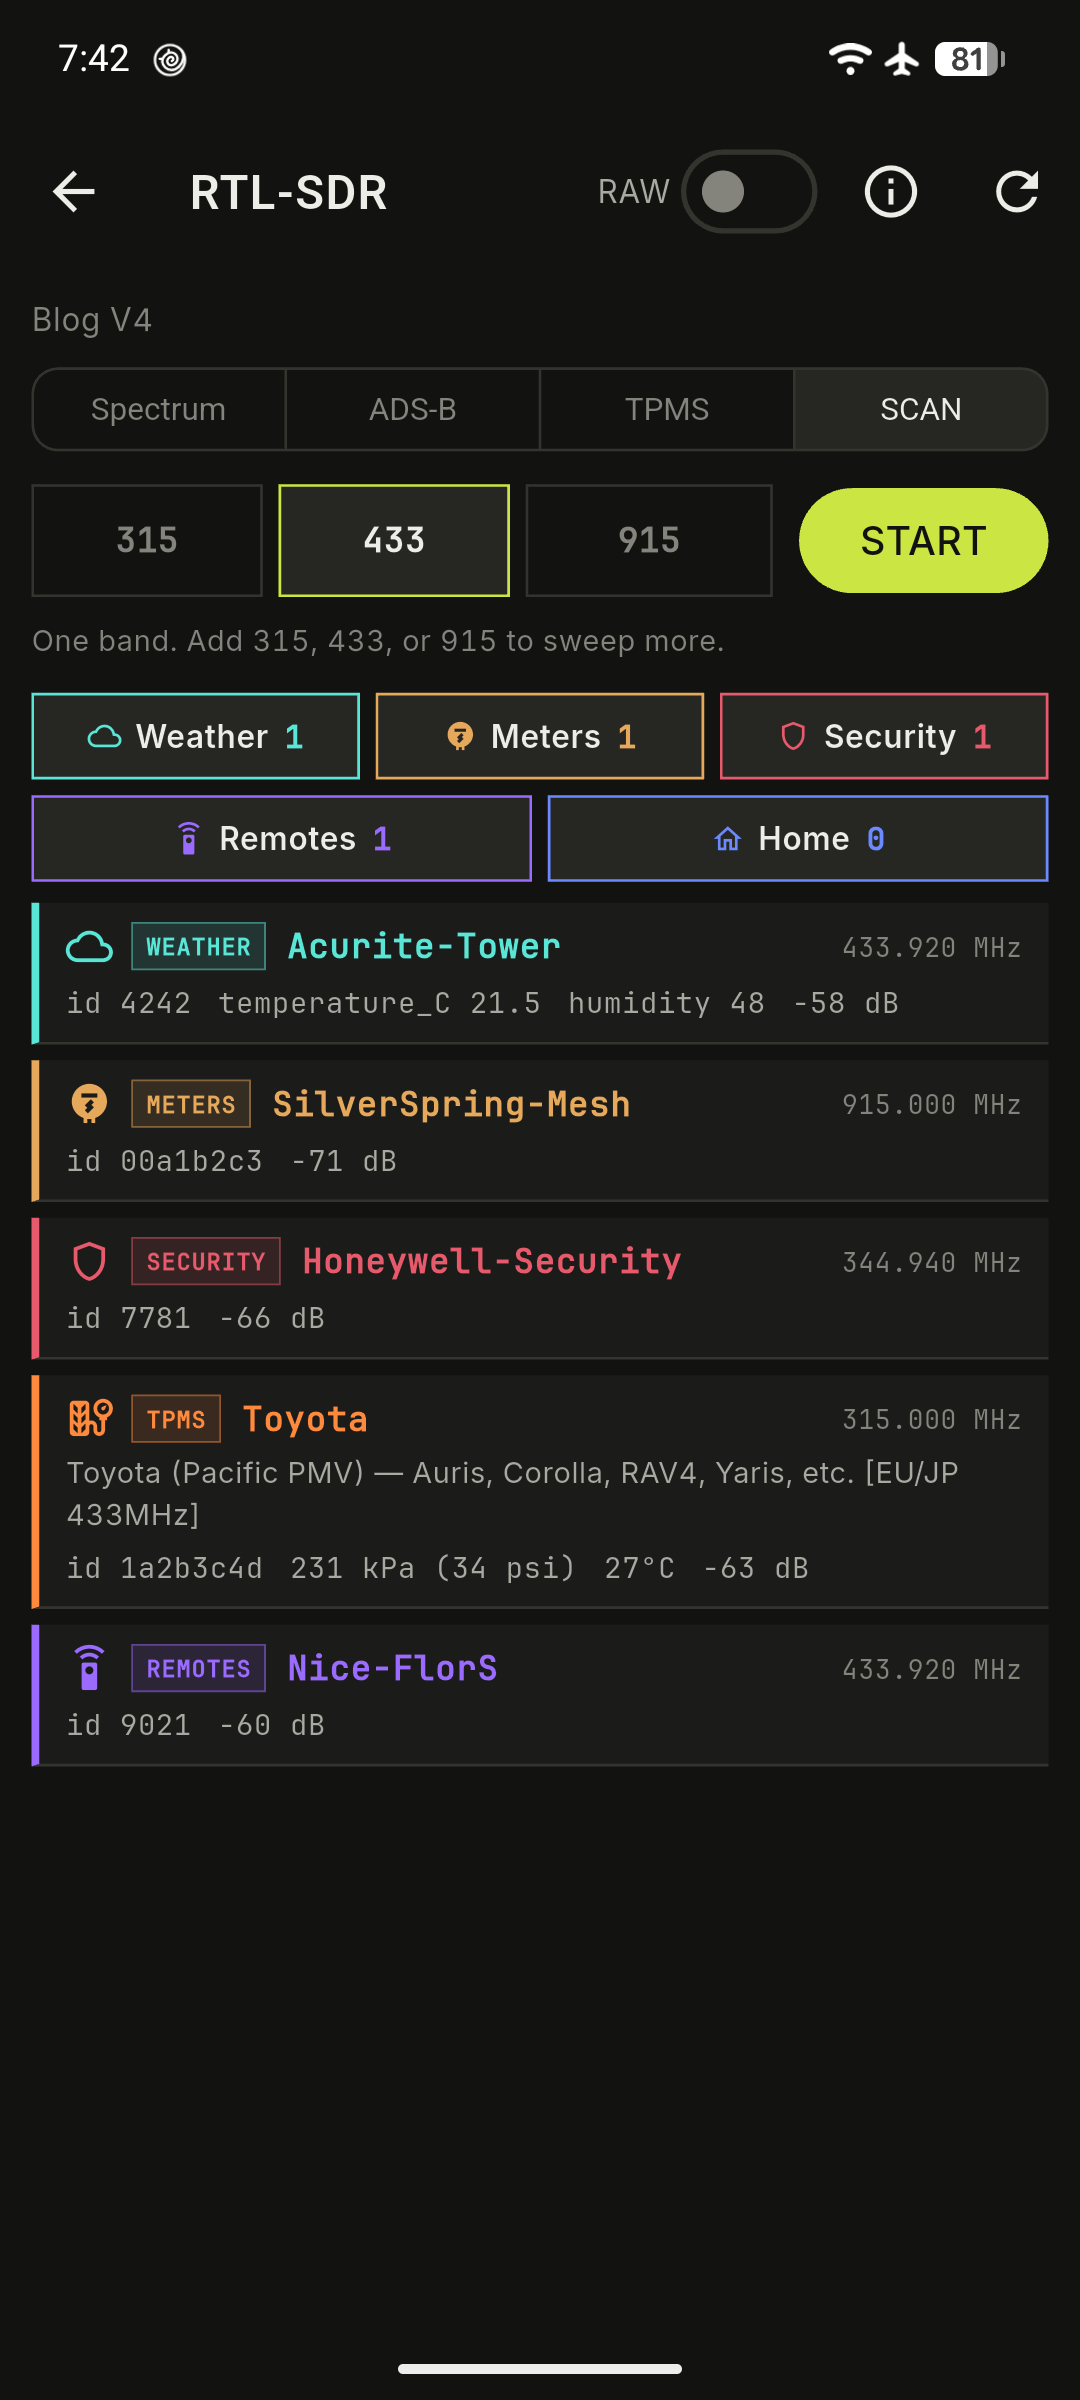
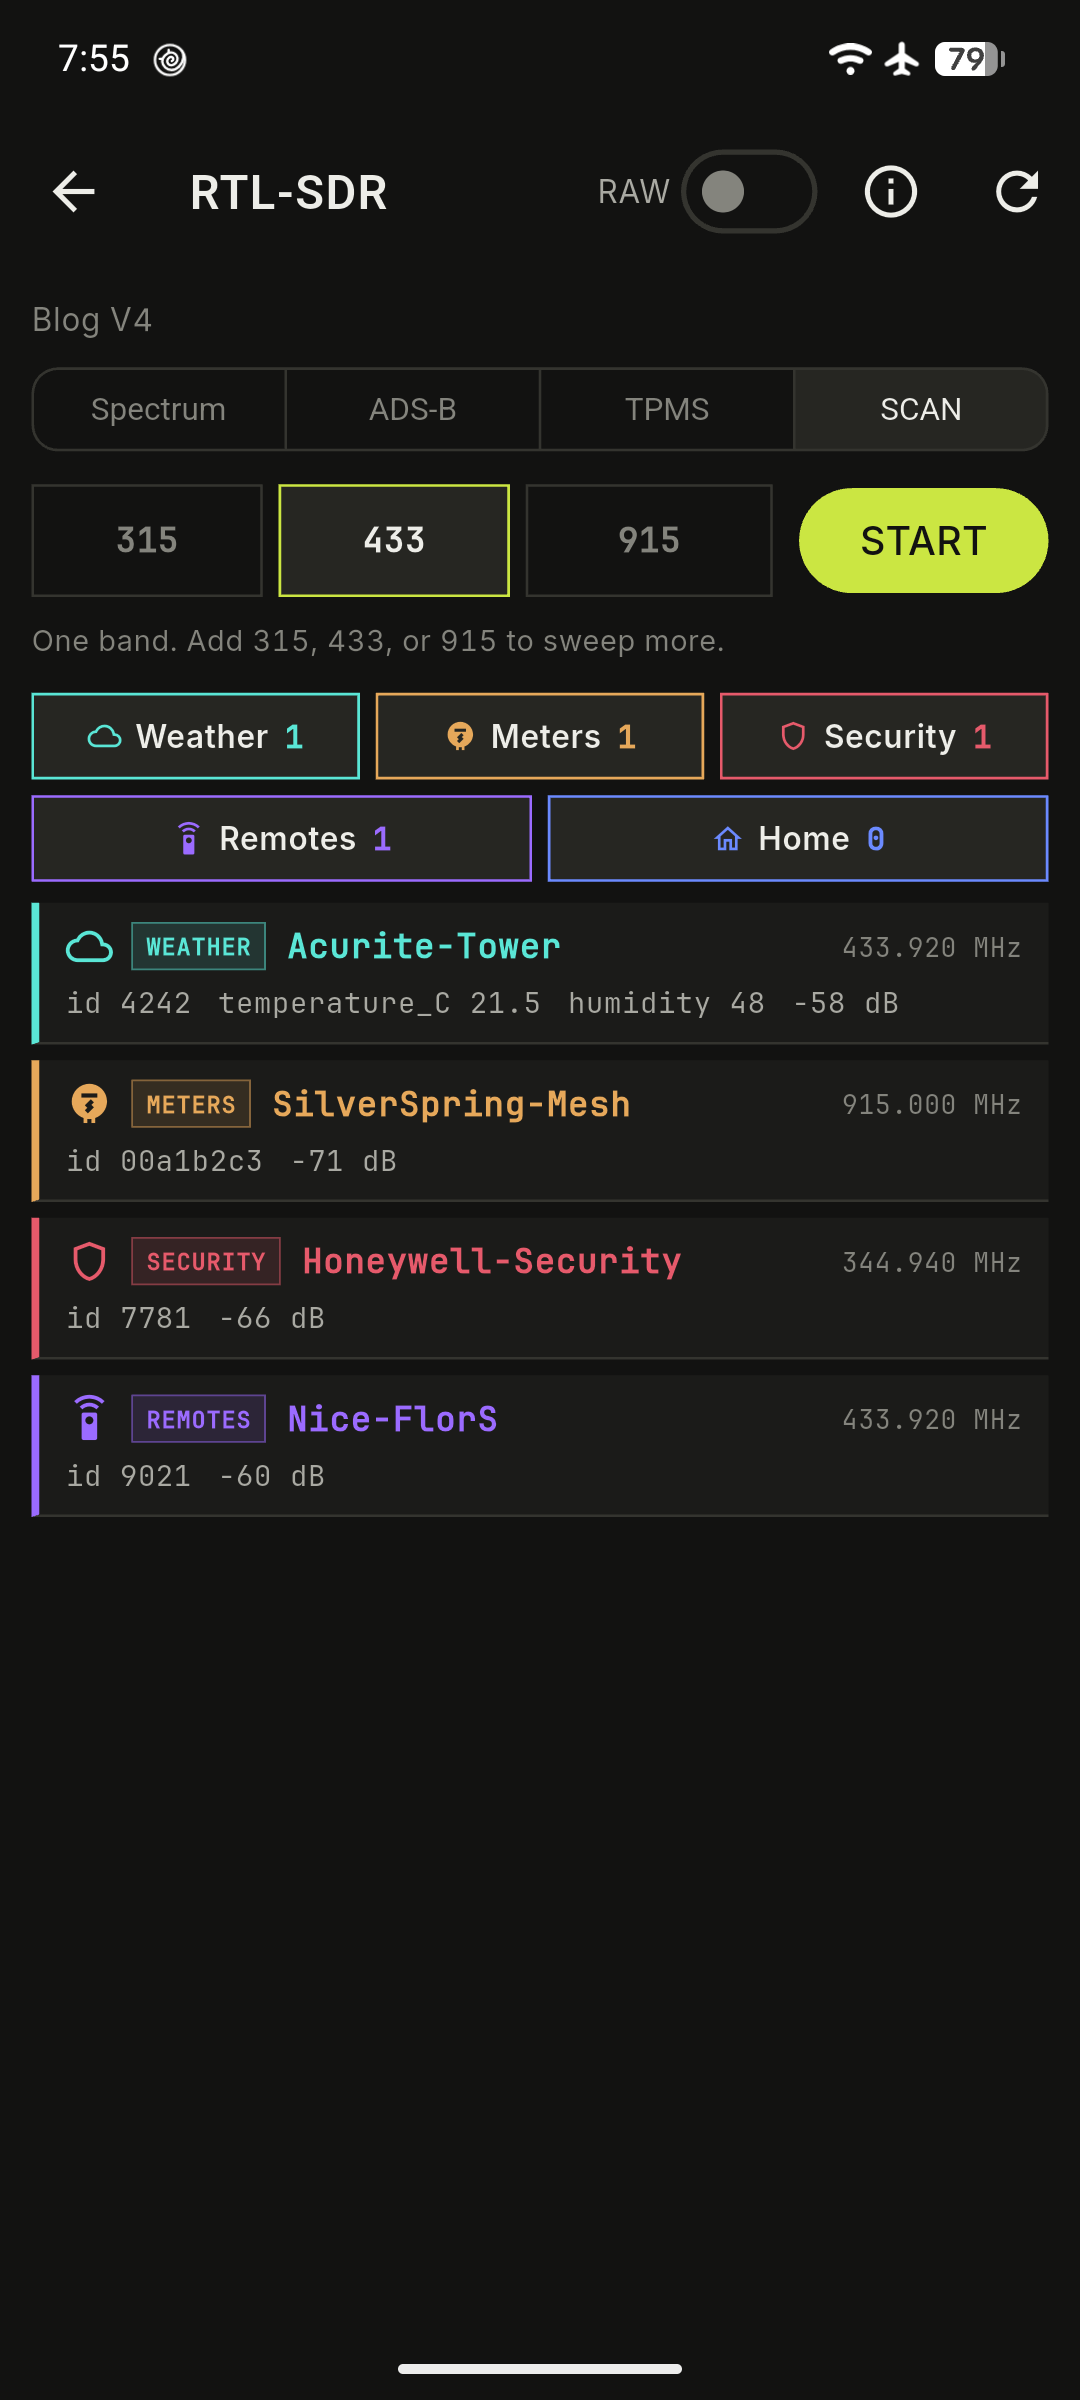
SDR: TPMS/SCAN list filter by mode

diff --git a/companion/lib/features/sdr/sdr_screen.dart b/companion/lib/features/sdr/sdr_screen.dart
@@ -337,6 +337,7 @@ class _SdrScreenState extends ConsumerState<SdrScreen> {
                       t: t,
                       showRaw: _showRaw,
                       catFilter: null,
+                      mode: _mode,
                     ),
                 },
               ),
@@ -348,7 +349,7 @@ class _SdrScreenState extends ConsumerState<SdrScreen> {
                 child: StreamBuilder<SdrFrame>(
                   stream: _c.frameStream,
                   builder: (context, _) => _DetectionList(
-                      detections: _c.detections, t: t, showRaw: _showRaw, catFilter: null),
+                      detections: _c.detections, t: t, showRaw: _showRaw, catFilter: null, mode: _mode),
                 ),
               ),
             ],
@@ -642,18 +643,21 @@ class _SpectrumPainter extends CustomPainter {
 }
 
 class _DetectionList extends StatelessWidget {
-  const _DetectionList({required this.detections, required this.t, required this.showRaw, required this.catFilter});
+  const _DetectionList({required this.detections, required this.t, required this.showRaw, required this.catFilter, required this.mode});
 
   final List<SdrDetection> detections;
   final ResolvedTheme t;
   final bool showRaw;
   final Object? catFilter;
+  final SdrMode mode;
 
   @override
   Widget build(BuildContext context) {
     final items = detections.where((d) {
       if (d.kind == 'ism' || d.kind == 'rf') return showRaw;
       if (d.kind == 'adsb' && !_fullAdsb(d)) return showRaw;
+      if (mode == SdrMode.tpms) return d.kind == 'tpms';
+      if (mode == SdrMode.rtl433 && d.kind == 'tpms') return false;
       if (catFilter is Sdr433Category) return _categoryOf(d) == catFilter;
       return true;
     }).toList();
